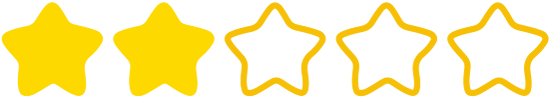
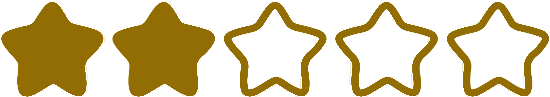
improve color contrast in most pages

diff --git a/css/main.css b/css/main.css
@@ -186,6 +186,10 @@ main > section > ul > li > p, main > section > ul > li > form > select {
     text-align: center;
 }
 
+main > section > ul > li > form > select{
+    border: 1px outset #737373;
+}
+
 main > section > ul > li > span > p, main > section > ul > li > span > strong {
     display: inline-block;
     margin-right: 1%;
@@ -264,7 +268,7 @@ main > article > section > p {
 }
 
 main ins {
-    color: rgb(200, 0, 0);
+    color: #B30000;
     text-decoration: none;
     font-weight: bold;
 }
@@ -304,7 +308,7 @@ main > section > ul > li > form > span {
     margin: 0 5% 5% 0;
     padding: 2%;
     vertical-align: middle;
-    border: 1px outset white;
+    border: 1px outset #737373;
 }
 
 main > section > ul > li > form > span > input {
@@ -322,19 +326,20 @@ main > section > ul > li > form > span > button {
 }
 
 main > section button[name='cartRemove'], main > section button[name='favouriteRemove'] {
+    color: white;
     width: 100%;
     vertical-align: middle;
     display: inline-flex;
-    background-color: red;
+    background-color: #B30000;
     font-size: large;
     align-items: center;
     justify-content: center;
     margin-bottom: 3%;
-    border: 1px outset rgb(210, 0, 0);
+    border: 1px outset #9e0000;
 }
 
 main > section button[name='cartRemove']:hover, main > section button[name='favouriteRemove']:hover {
-    background-color: rgb(210, 0, 0);
+    background-color: red;
 }
 
 main > section button[name='cartRemove'] {
@@ -350,7 +355,7 @@ main form > button[name='favourite'], main form > button[name='cart'], main butt
     align-items: center;
     justify-content: center;
     margin-top: 3%;
-    border: 1px outset #ddd;
+    border: 1px outset #737373;
 }
 
 main form > button[name='favourite']:hover, main > article button[name='edit']:hover {
@@ -376,6 +381,7 @@ main > article > form > span {
     background-color: white;
     box-sizing: border-box;
     border-radius: 100px;
+    border: 1px outset #737373;
     padding: 2%;
     vertical-align: middle;
 }
@@ -437,7 +443,7 @@ main section[id='Reviews'] > form {
 
 main section[id='Reviews'] button {
     padding: 1% 2%;
-    border: 1px outset #ddd;
+    border: 1px outset #737373;
 }
 
 main section[id='Reviews'] label {
@@ -492,7 +498,7 @@ main section footer a {
 
 main > section > form > p {
     font-weight: bold;
-    color: red;
+    color: #B30000;
     margin-bottom: 1%;
 }
 
@@ -542,13 +548,13 @@ main > section > form > input, main > section > form > ul > li > input, main > s
     padding: 0 1%;
     margin-top: 1%;
     border-radius: 100px;
-    border: 1px solid #bbb;
+    border: 1px solid #737373;
 }
 
 main > section > form > ul > li > button, main > section > form button {
     padding: 1% 2%;
     margin: 1% 1% 0 ;
-    border: 1px outset #ddd;
+    border: 1px outset #737373;
 }
 
 main > section > form {
@@ -616,7 +622,7 @@ main > section > form > input[type='file'] {
 
 ::file-selector-button {
     border-radius: 10px;
-    border: 1px outset #bbb;
+    border: 1px outset #737373;
 }
 
 ::file-selector-button:hover {
@@ -631,7 +637,7 @@ main > section > form > textarea {
     margin-top: 1%;
     border-radius: 10px;
     vertical-align: top;
-    border: 1px solid #bbb;
+    border: 1px solid #737373;
     resize: none;
 }
 
@@ -672,13 +678,13 @@ main > div > section:first-of-type > button {
     display: flex;
     justify-content: center;
     align-items: center;
-    border: 1px outset #ddd;
+    border: 1px outset #737373;
 }
 
 main > div > button {
-    background-color: red;
+    background-color: #B30000;
     font-size: large;
-    border: 1px outset rgb(210, 0, 0);
+    border: 1px outset #9e0000;
     display: inline-flex;
     justify-content: center;
     align-items: center;
@@ -690,7 +696,7 @@ main > div > button > img {
 }
 
 main > div > button:hover {
-    background-color: rgb(210, 0, 0);
+    background-color: red;
 }
 
 main > div > section > header > img {

diff --git a/css/aside.css b/css/aside.css
@@ -28,7 +28,7 @@ aside > section > form {
 aside > section > form > button {
     text-align: center;
     background-color: white;
-    border: 1px outset #ddd;
+    border: 1px outset #737373;
     border-radius: 20px;
     padding: 1%;
     margin: 1%;
@@ -52,7 +52,7 @@ aside > section > form > button, aside > section > form > button > span {
 
 aside > section > form > button > ins {
     font-weight: bold;
-    color: rgb(200, 0, 0);
+    color: #b30000;
     text-decoration: none;
 }
 

diff --git a/js/favourite.js b/js/favourite.js
@@ -51,7 +51,7 @@ function generateInteractionForm(product, cartQuantity, available) {
     const form = document.createElement('form');
     
     const removeImage = document.createElement('img');
-    removeImage.src = utils.RESOURCES_DIR + 'cestino_B.png';
+    removeImage.src = utils.RESOURCES_DIR + 'cestino_W.png';
     removeImage.alt = '';
     
     const removeButton = document.createElement('button');

diff --git a/js/cart.js b/js/cart.js
@@ -123,7 +123,7 @@ function generateInteractionForm(product, available) {
     span.appendChild(plusButton);
     
     const removeImage = document.createElement('img');
-    removeImage.src = utils.RESOURCES_DIR + 'cestino_B.png';
+    removeImage.src = utils.RESOURCES_DIR + 'cestino_W.png';
     removeImage.alt = '';
     
     const removeButton = document.createElement('button');
